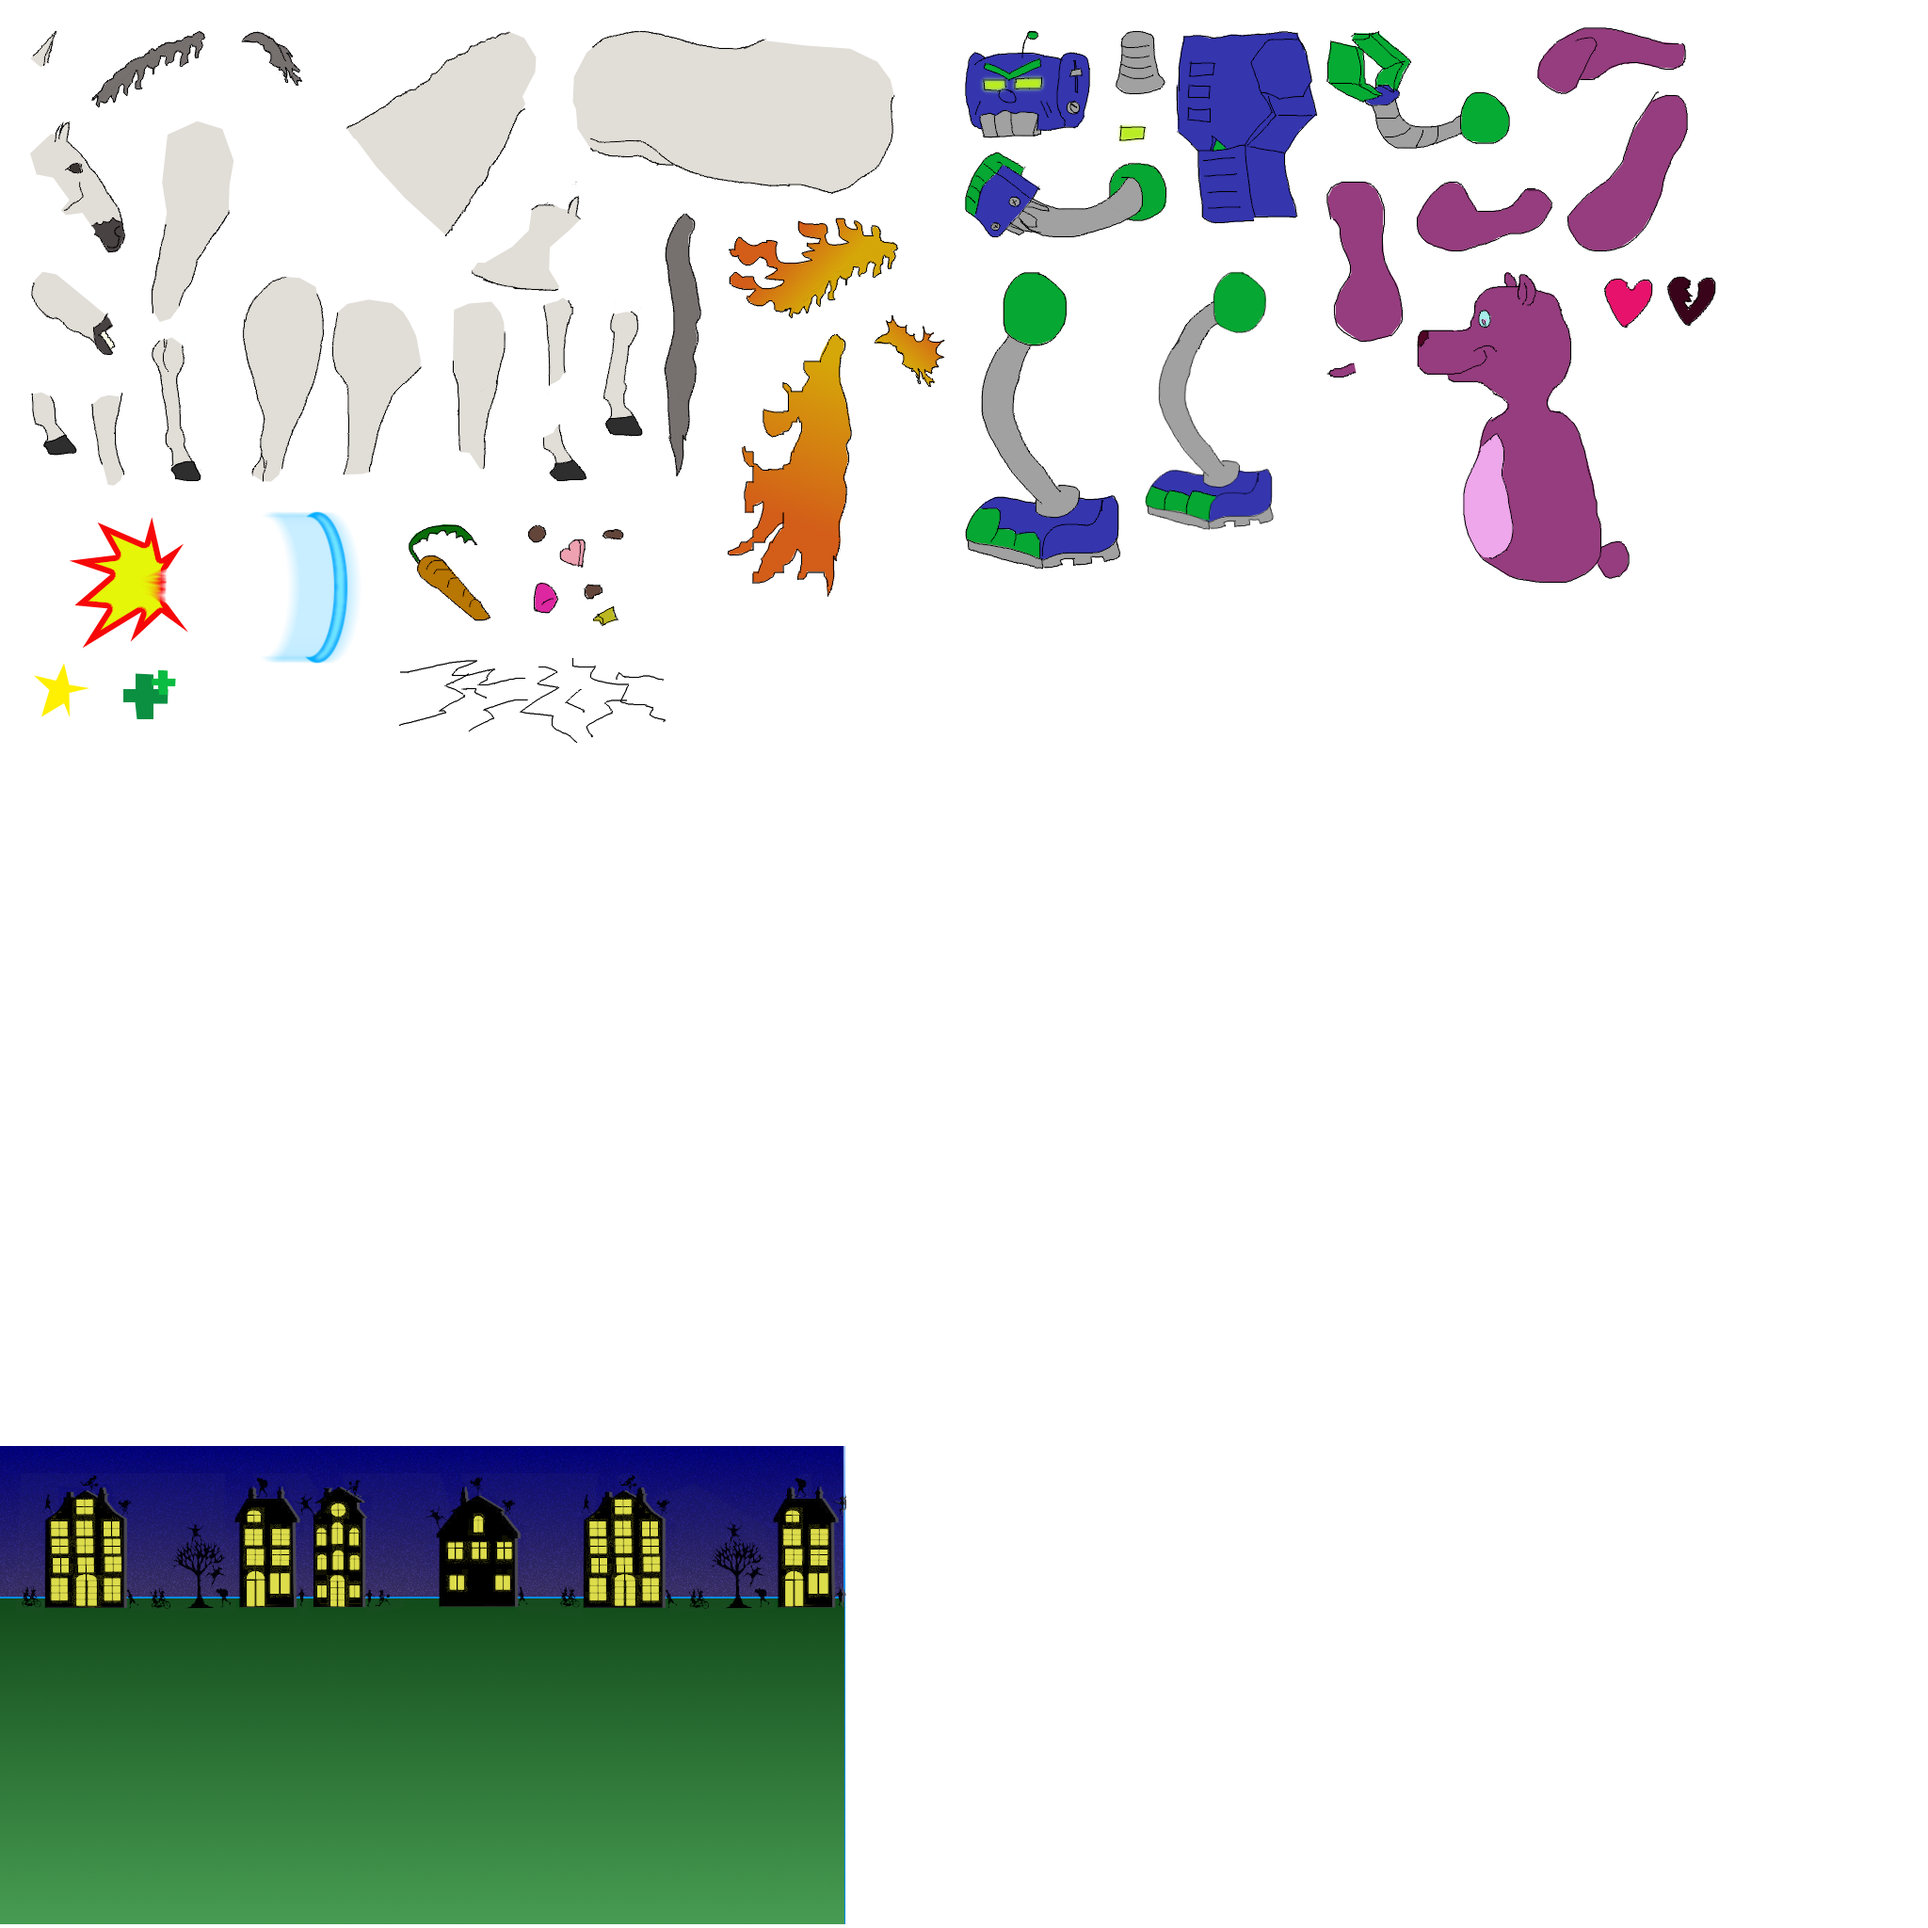
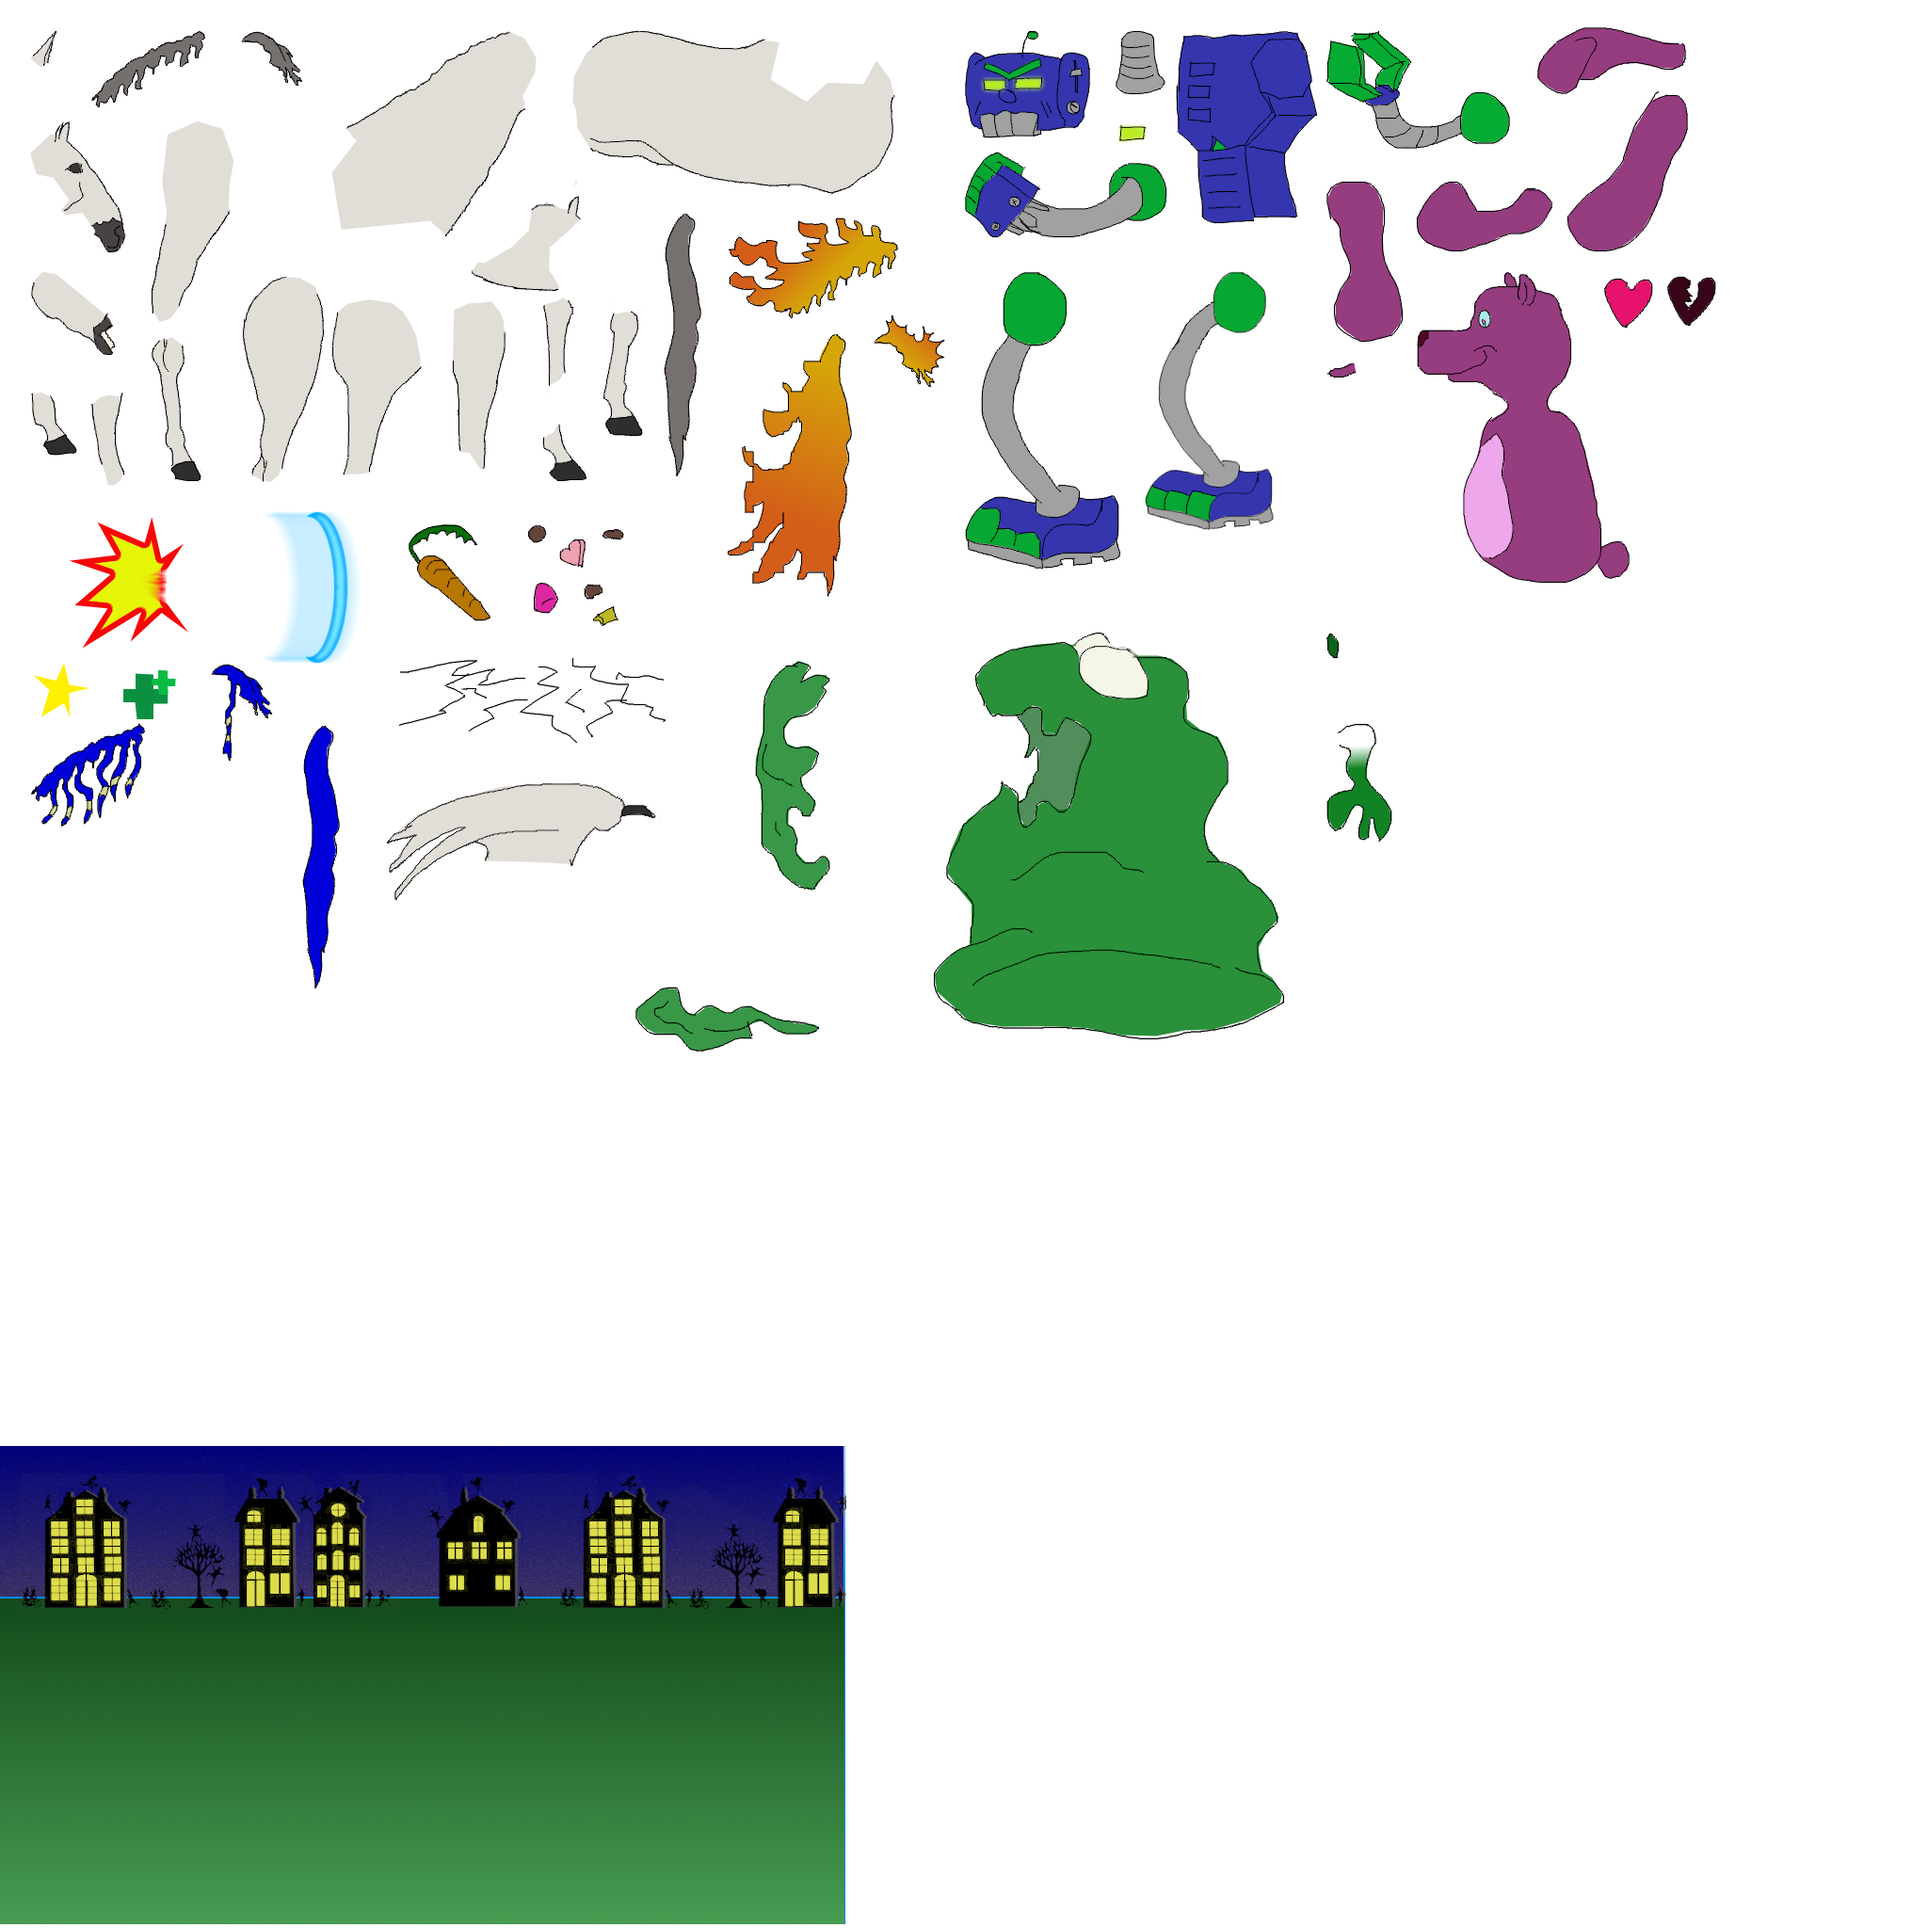
Complete animations

diff --git a/src/data/creatures.ts b/src/data/creatures.ts
@@ -7,6 +7,7 @@ import ozoveelsnellerAnimation from "./geppetto/ozoveelsneller.json";
 import ameerigogoAnimation from "./geppetto/ameerigogo.json";
 import robotAnimation from "./geppetto/robot.json";
 import bearAnimation from "./geppetto/beer.json";
+import slimeAnimation from "./geppetto/slime.json";
 
 const loadTexture = async (url: string): Promise<HTMLImageElement> =>
   new Promise((resolve) => {
@@ -278,11 +279,12 @@ const slime: CreatureCard = {
   energy: 4,
 
   texture: genericCombatTexture,
-  animation: prepareAnimation(amerigoAnimation as unknown as ImageDefinition),
+  animation: prepareAnimation(slimeAnimation as unknown as ImageDefinition),
 
   actions: [
     {
       name: "Klodder",
+      animationTrack: { target: "self", track: "klodder" },
       damage: 10,
       cost: 0,
       cooldown: 0,
@@ -290,6 +292,7 @@ const slime: CreatureCard = {
     },
     {
       name: "Plakkerigheid",
+      animationTrack: { target: "self", track: "stun" },
       damage: 2,
       damageType: "stun",
       cost: 2,
